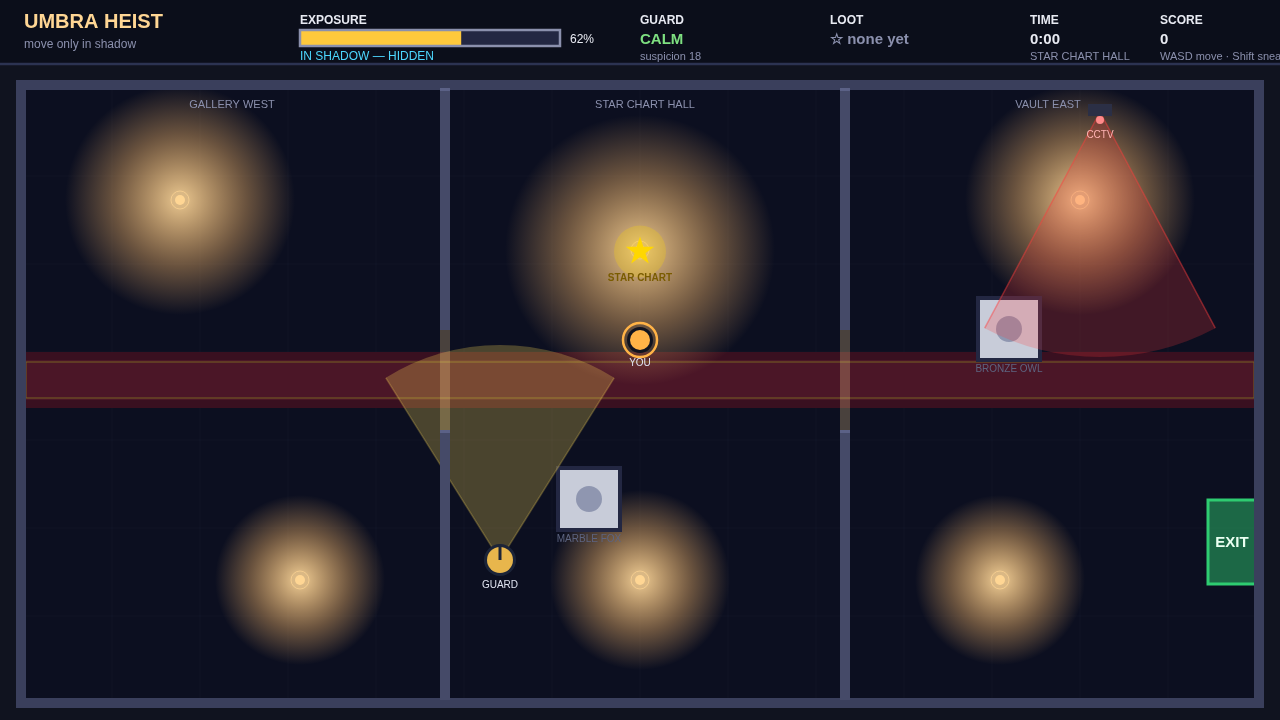
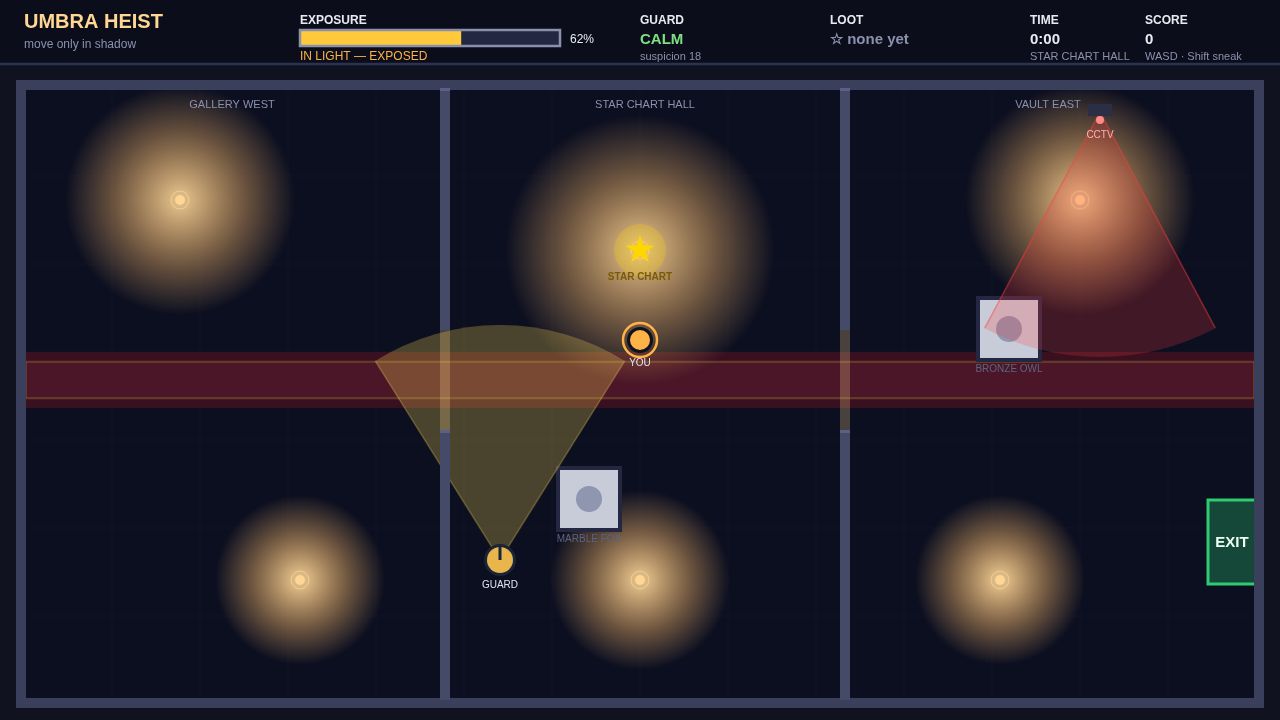
Tuning: guard vision 215->235px, patrol 78->88px/s, suspicion 58->64/s, exposure light 24->28/s — naive autopilot now gets caught, smart play still wins

diff --git a/game/src/config.js b/game/src/config.js
@@ -57,12 +57,12 @@ export const GUARD_WAYPOINTS = [
   { x: 500, y: 560 },
 ];
 export const GUARD = {
-  speedPatrol: 78,
+  speedPatrol: 88,
   speedChase: 205,
-  visionRange: 215,
+  visionRange: 235,
   visionHalfAngle: 0.56, // ~32 degrees each side
   catchDistance: 24,
-  suspicionGain: 58, // per second while the player is seen
+  suspicionGain: 64, // per second while the player is seen
   suspicionCalm: 40, // below this: CALM (patrol)
   suspicionChase: 80, // at/above this: CHASE (!)
   loseSightSeconds: 3,
@@ -83,7 +83,7 @@ export const PLAYER = {
 
 // Exposure meter 0..100: light fills it, shadow drains it, CCTV fills it fast.
 export const EXPOSURE = {
-  lightMoving: 24,
+  lightMoving: 28,
   lightStanding: 15,
   shadowDrain: 20,
   cctvSeen: 48,

diff --git a/README.md b/README.md
@@ -10,7 +10,7 @@ move fast only in shadow, steal the Star Chart, and reach the green EXIT unseen.
 
 - **Fast in shadow, slow in light.** You run at 175 px/s in the dark blue shadow
   and only 95 px/s under the warm lamps.
-- **Exposure meter (HUD).** Standing or moving in light fills it (+24/s moving,
+- **Exposure meter (HUD).** Standing or moving in light fills it (+28/s moving,
   +15/s standing). In shadow it drains (−20/s). At **100% the guard is called**
   to your position.
 - **Shift = sneak.** 68 px/s, silent — and it fills **no** exposure even in light.
@@ -76,8 +76,8 @@ stages each screenshot scene deterministically.
 ## Numbers (the evidence)
 
 3 rooms · 1 guard · 1 CCTV camera · 2 statue covers · 3 suspicion stages ·
-1 loot (Star Chart) · 1 exit · exposure 0–100 · guard vision 215 px / ±32° ·
-patrol 78 px/s · chase 205 px/s · shadow 175 px/s · light 95 px/s · sneak 68 px/s
+1 loot (Star Chart) · 1 exit · exposure 0–100 · guard vision 235 px / ±32° ·
+patrol 88 px/s · chase 205 px/s · shadow 175 px/s · light 95 px/s · sneak 68 px/s
 
 ## License
 
